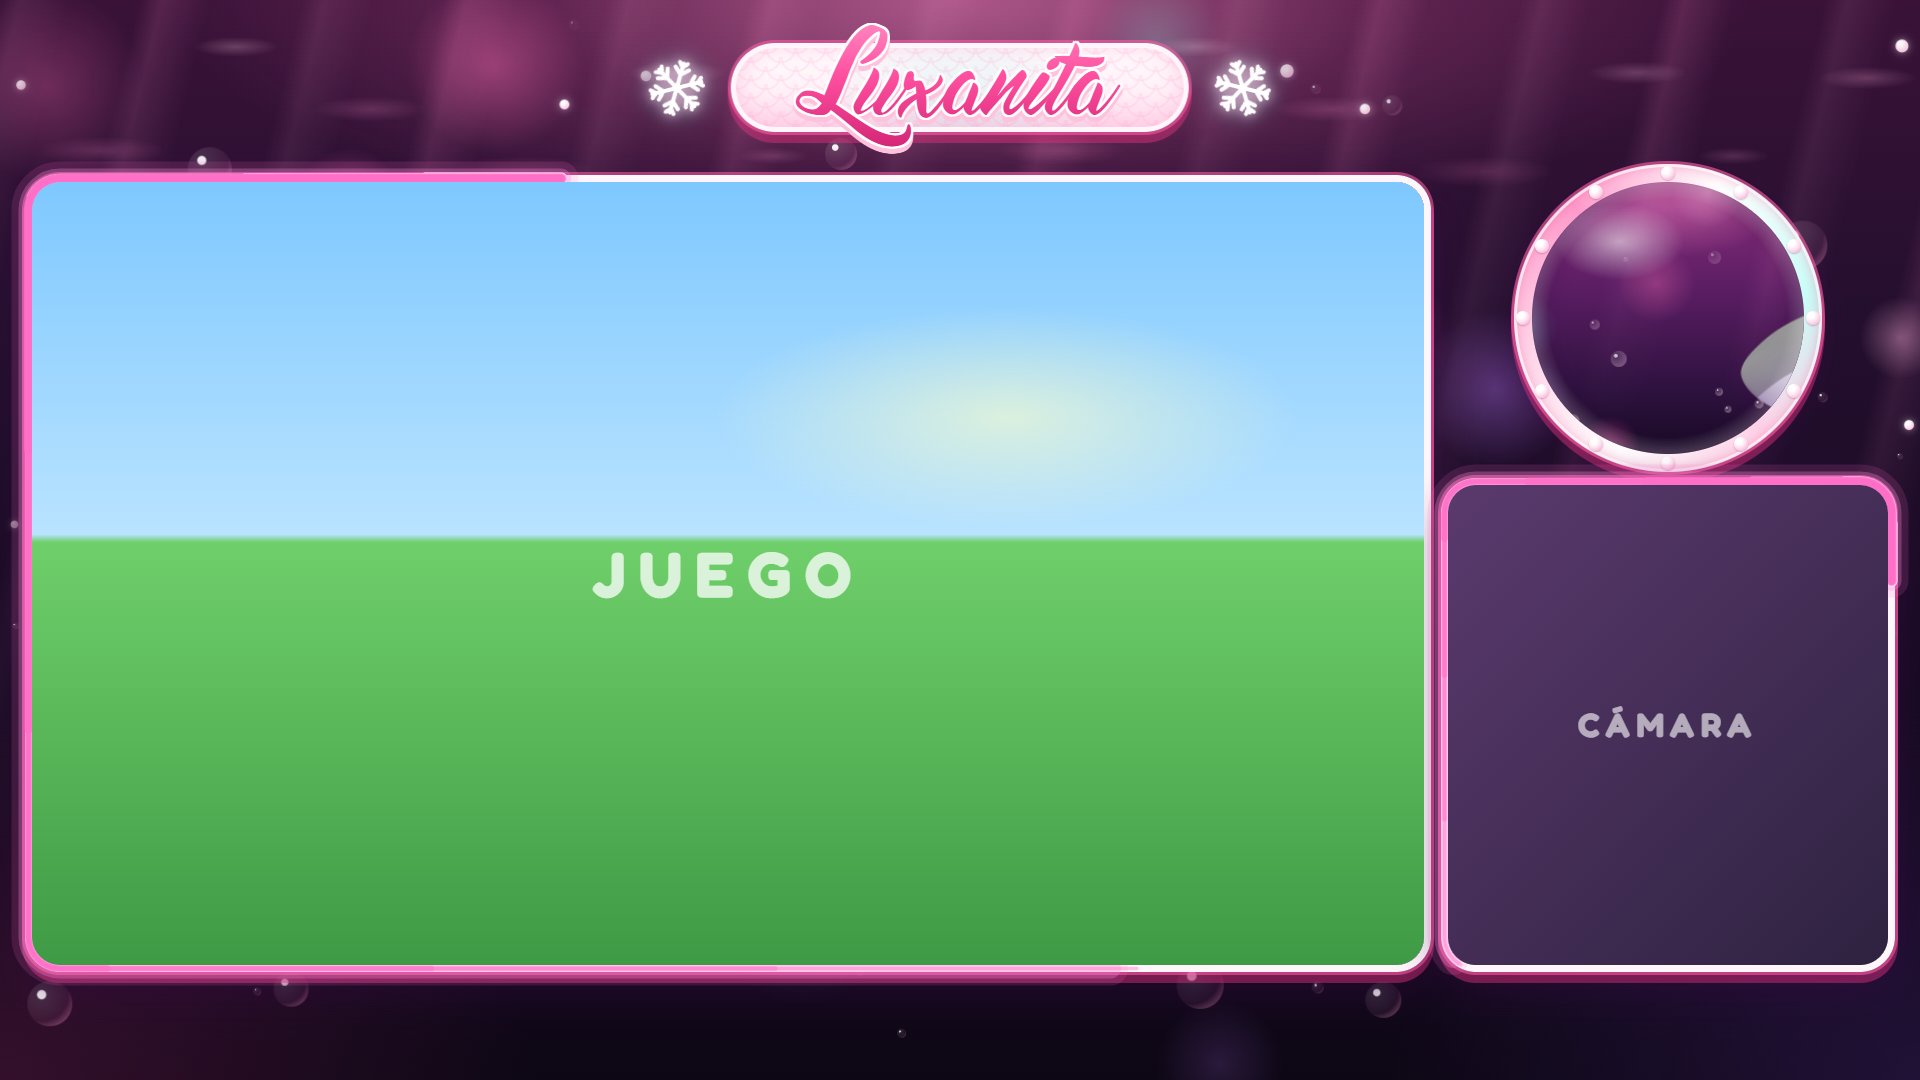
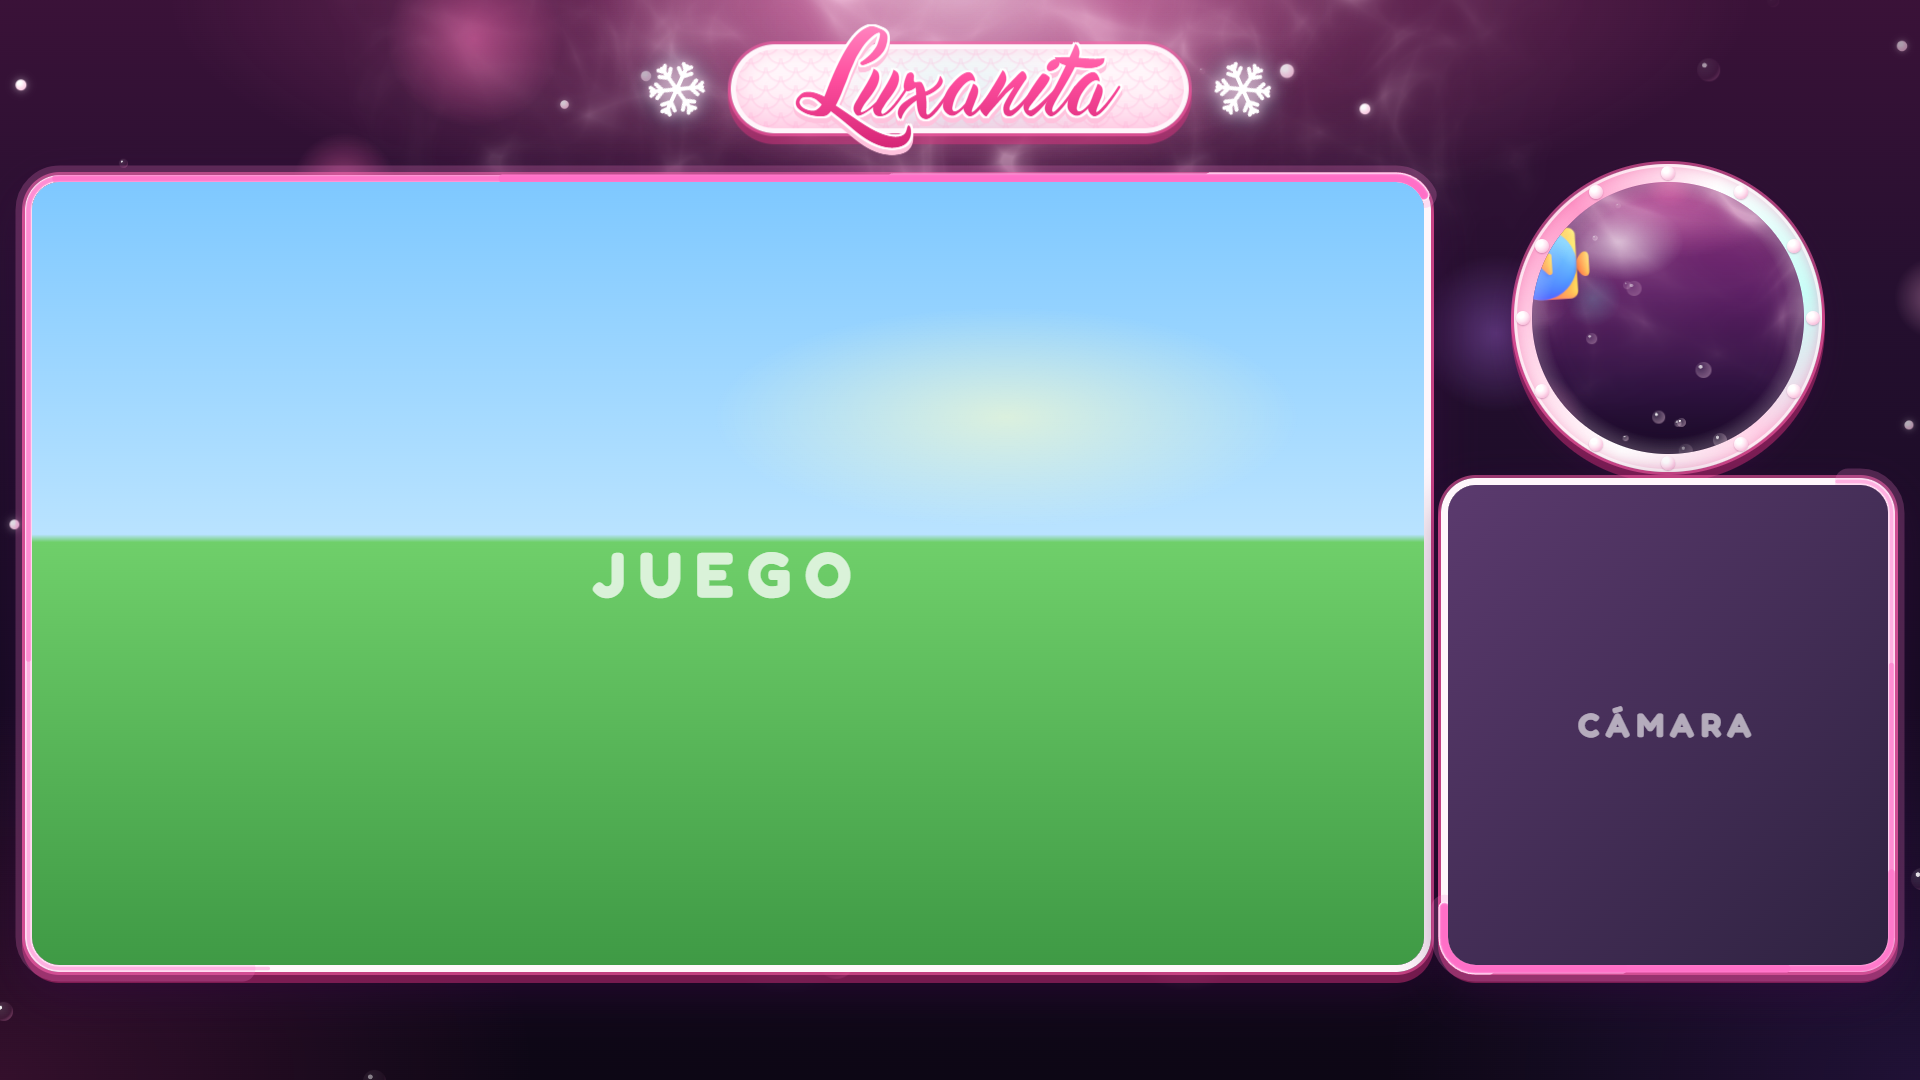
Overlay: reflejos de luz bajo el agua (cáusticas) y más ligero
- Cáusticas rosas solo en el centro de arriba, en vez de líneas: dos capas
  de textura generada (generar_causticas.py) que se mueven con la tarjeta
  gráfica.
- Fuera los reflejos que se desplazaban de lado.
- Neón con menos capas y redibujado 30 veces por segundo.
- Un tercio menos de burbujas y luces.

diff --git a/overlay/overlay.html b/overlay/overlay.html
@@ -63,43 +63,58 @@ html, body {
     linear-gradient(180deg, #3a1238 0%, #250f2f 28%, #160a22 62%, #0d0715 100%);
 }
 
-/* rayos de luz desde la superficie */
+/* reflejos de luz bajo el agua (cáusticas), solo en el centro de arriba.
+   Dos capas de la misma red de luz que se desplazan despacio en direcciones distintas:
+   al cruzarse parece que la luz "baila". Texturas: fondo/causticas*.png (generar_causticas.py) */
 .rays {
   position: absolute;
-  inset: -10% -10% 0;
-  background: repeating-linear-gradient(100deg,
-    rgba(255,140,200,0) 0 70px, rgba(255,140,200,.2) 92px, rgba(255,140,200,0) 140px,
-    rgba(255,140,200,0) 230px, rgba(255,170,215,.13) 252px, rgba(255,170,215,0) 300px);
-  -webkit-mask-image: linear-gradient(180deg, #000 0%, rgba(0,0,0,.6) 40%, transparent 90%);
-          mask-image: linear-gradient(180deg, #000 0%, rgba(0,0,0,.6) 40%, transparent 90%);
-  animation: rays 26s ease-in-out infinite alternate;
+  left: 50%;
+  top: -40px;
+  width: 1700px;
+  height: 760px;
+  margin-left: -850px;
+  overflow: hidden;
+  -webkit-mask-image: radial-gradient(ellipse 50% 100% at 50% 0, #000 0%, rgba(0,0,0,.6) 35%, transparent 75%);
+          mask-image: radial-gradient(ellipse 50% 100% at 50% 0, #000 0%, rgba(0,0,0,.6) 35%, transparent 75%);
 }
-@keyframes rays {
-  from { transform: translateX(-60px) skewX(-4deg); opacity: .8; }
-  to   { transform: translateX(60px) skewX(4deg); opacity: 1; }
+.rays::before, .rays::after {
+  content: '';
+  position: absolute;
+  will-change: transform;
+}
+.rays::before {
+  left: -512px;
+  top: -512px;
+  width: calc(100% + 1024px);
+  height: calc(100% + 1024px);
+  background: url('fondo/causticas1.png') 0 0 / 512px 512px;
+  opacity: .7;
+  animation: caust1 46s linear infinite;
+}
+.rays::after {
+  left: -640px;
+  top: -640px;
+  width: calc(100% + 1280px);
+  height: calc(100% + 1280px);
+  background: url('fondo/causticas2.png') 0 0 / 640px 640px;
+  opacity: .5;
+  animation: caust2 64s linear infinite;
+}
+/* se desplazan justo una baldosa: al terminar empiezan igual y no se nota el salto */
+@keyframes caust1 { to { transform: translate(512px, 512px); } }
+@keyframes caust2 { to { transform: translate(-640px, 640px); } }
+/* el "sol": un brillo rosa en el centro de la superficie */
+.sun {
+  position: absolute;
+  left: 50%;
+  top: -220px;
+  width: 760px;
+  height: 420px;
+  margin-left: -380px;
+  border-radius: 50%;
+  background: radial-gradient(ellipse at 50% 50%, rgba(255,235,245,.55) 0%, rgba(255,150,205,.35) 30%, rgba(255,110,181,0) 70%);
 }
 
-/* reflejos de agua (cáusticas) que se mueven arriba */
-.caustics {
-  position: absolute;
-  left: 0;
-  top: 0;
-  width: 2880px;             /* 3 veces el dibujo de 960 px: se desplaza 960 px y vuelve a empezar */
-  height: 260px;
-  will-change: transform;
-  background:
-    radial-gradient(ellipse 70px 16px at 8% 30%, rgba(255,170,215,.28), transparent 70%),
-    radial-gradient(ellipse 90px 20px at 24% 58%, rgba(255,140,200,.22), transparent 70%),
-    radial-gradient(ellipse 60px 14px at 38% 18%, rgba(255,210,235,.26), transparent 70%),
-    radial-gradient(ellipse 80px 18px at 52% 42%, rgba(255,150,205,.22), transparent 70%),
-    radial-gradient(ellipse 100px 22px at 68% 66%, rgba(255,130,195,.18), transparent 70%),
-    radial-gradient(ellipse 70px 16px at 84% 28%, rgba(255,190,225,.26), transparent 70%),
-    radial-gradient(ellipse 50px 12px at 94% 60%, rgba(255,160,210,.2), transparent 70%);
-  background-size: 960px 260px;
-  animation: caustics 22s linear infinite;
-  opacity: .9;
-}
-@keyframes caustics { to { transform: translateX(-960px); } }
 
 /* burbujas: la de fuera sube en línea recta y la de dentro se mece suave
    (dos movimientos separados = sin tirones al cambiar de dirección) */
@@ -343,8 +358,13 @@ html, body {
   box-shadow: inset 0 0 30px rgba(40,5,50,.55);
 }
 .porthole .water .rays {
-  inset: -20% -30% 0;
-  animation-duration: 18s;
+  left: 0;
+  top: 0;
+  width: 100%;
+  height: 100%;
+  margin: 0;
+  -webkit-mask-image: linear-gradient(180deg, #000, transparent 85%);
+          mask-image: linear-gradient(180deg, #000, transparent 85%);
 }
 /* animales que pasan por la ventana (los crea el JS al azar) */
 .porthole .swimmer {
@@ -435,8 +455,8 @@ html.preview body { background: #1b0e2c; }
 <body>
 <div id="stage">
   <div class="sea">
+    <div class="sun"></div>
     <div class="rays"></div>
-    <div class="caustics"></div>
     <div class="bokeh"></div>
     <div class="bubbles"></div>
   </div>
@@ -574,35 +594,47 @@ html.preview body { background: #1b0e2c; }
   }
 
   // ----- neón: varias capas que comparten la cabeza; cuanto más larga, más fina y transparente -----
-  var NEON_CAPAS = 9, NEON_COLA = 0.55, NEON_VEL = 170;     // capas, largo de la estela (parte del borde), px por segundo
+  var NEON_CAPAS = 6, NEON_COLA = 0.55, NEON_VEL = 170, NEON_FPS = 30;   // capas, largo de la estela, px por segundo, veces por segundo que se redibuja
   function neonSVG(b) {
     var W = b.w + BORDER * 2, H = b.h + BORDER * 2, h = BORDER / 2, r = R + BORDER - h;
     var rect = '<rect x="' + h + '" y="' + h + '" width="' + (W - BORDER) + '" height="' + (H - BORDER) + '" rx="' + r + '" pathLength="1000"';
     // halo ancho y suave a lo largo de toda la estela
     var out = '<svg class="neon" width="' + W + '" height="' + H + '" viewBox="0 0 ' + W + ' ' + H + '">' +
-              rect + ' data-halo="1" stroke="#ff6ec7" stroke-width="34" stroke-opacity=".14"/>' +
-              rect + ' data-halo="1" stroke="#ff8ad8" stroke-width="20" stroke-opacity=".3"/>';
+              rect + ' data-halo="1" stroke="#ff7fcf" stroke-width="26" stroke-opacity=".22"/>';
     for (var k = 0; k < NEON_CAPAS; k++) {
       var t = k / (NEON_CAPAS - 1);                                   // 0 = cabeza, 1 = final de la cola
       var ancho = (12 - t * 8.5).toFixed(2);                          // de 12 px a 3,5 px
       var op = (1 - t * .6).toFixed(2);
-      var color = k === 0 ? '#fff0fa' : (k < 3 ? '#ffa3e0' : '#ff6ec7');      // rosa chicle neón
+      var color = k === 0 ? '#fff0fa' : (k < 2 ? '#ffa3e0' : '#ff6ec7');      // rosa chicle neón
       out += rect + ' stroke="' + color + '" stroke-width="' + ancho + '" stroke-opacity="' + op + '"/>';
     }
     return out + '</svg>';
   }
+  // El neón no lo puede mover la tarjeta gráfica (es un trazo que avanza), así que se redibuja
+  // solo NEON_FPS veces por segundo: va tan despacio que no se nota y gasta mucho menos.
+  var neones = [];
   function animarNeon(f, b) {
     var per = 2 * (b.w + b.h + BORDER * 2) - (8 - 2 * Math.PI) * (R + BORDER / 2);   // perímetro aprox.
-    var dur = per / NEON_VEL * 1000;
-    var rects = f.querySelectorAll('.neon rect');
-    var capa = 0;
-    rects.forEach(function (rc) {
+    var capa = 0, n = { dur: per / NEON_VEL * 1000, rects: [] };
+    f.querySelectorAll('.neon rect').forEach(function (rc) {
       var largo = rc.dataset.halo ? 1000 * NEON_COLA : 1000 * NEON_COLA * Math.pow(++capa / NEON_CAPAS, 1.4) + 6;   // la cabeza es la capa más corta
       rc.setAttribute('stroke-dasharray', largo.toFixed(1) + ' ' + (1000 - largo).toFixed(1));
-      rc.animate([{ strokeDashoffset: largo }, { strokeDashoffset: largo - 1000 }],
-                 { duration: dur, iterations: Infinity, easing: 'linear' });
+      n.rects.push({ el: rc, largo: largo });
     });
+    neones.push(n);
   }
+  var ultimoNeon = -1e9;
+  function moverNeon(t) {
+    if (t - ultimoNeon >= 1000 / NEON_FPS - 1) {
+      ultimoNeon = t;
+      neones.forEach(function (n) {
+        var avance = (t % n.dur) / n.dur * 1000;
+        n.rects.forEach(function (r) { r.el.setAttribute('stroke-dashoffset', (r.largo - avance).toFixed(1)); });
+      });
+    }
+    requestAnimationFrame(moverNeon);
+  }
+  requestAnimationFrame(moverNeon);
 
   frame('game', LAYOUT.game, {});
   frame('cam',  LAYOUT.cam,  {});
@@ -610,7 +642,7 @@ html.preview body { background: #1b0e2c; }
   // ----- luces difuminadas (rosas, blancas y algún toque aguamarina) -----
   var bokeh = document.querySelector('.bokeh'), html = '';
   var tints = ['rgba(255,110,181,.5)', 'rgba(255,180,220,.4)', 'rgba(255,80,170,.42)', 'rgba(127,243,230,.22)', 'rgba(190,120,255,.35)'];
-  for (var i = 0; i < 20; i++) {
+  for (var i = 0; i < 14; i++) {
     html += '<span style="--x:' + (rnd() * 100).toFixed(1) + '%;--y:' + (rnd() * 100).toFixed(1) + '%;--s:' + (60 + rnd() * 160 | 0) + 'px;--c:' + tints[i % tints.length] + '"></span>';
   }
   bokeh.innerHTML = html;
@@ -626,7 +658,7 @@ html.preview body { background: #1b0e2c; }
 
   // ----- burbujas -----
   var bubbles = document.querySelector('.bubbles'); html = '';
-  for (i = 0; i < 45; i++) {
+  for (i = 0; i < 30; i++) {
     html += '<span style="--x:' + (rnd() * 100).toFixed(1) + '%;--s:' + (6 + Math.pow(rnd(), 2) * 44 | 0) + 'px;--d:' + (20 + rnd() * 16).toFixed(1) + 's;--t:' + (-rnd() * 36).toFixed(1) + 's"><i></i></span>';
   }
   bubbles.innerHTML = html;

diff --git a/overlay/generar_causticas.py b/overlay/generar_causticas.py
@@ -1,0 +1,38 @@
+# Genera las texturas de cáusticas (la red de luz que se ve bajo el agua) del overlay.
+#   python generar_causticas.py
+# Crea fondo/causticas1.png y fondo/causticas2.png: 512x512, se pueden repetir sin cortes,
+# en blanco rosado con transparencia. Basado en el efecto "tileable water caustic" (Dave Hoskins).
+import pathlib
+import numpy as np
+from PIL import Image
+
+TAM = 512
+OUT = pathlib.Path(__file__).parent / "fondo"
+OUT.mkdir(exist_ok=True)
+
+
+def causticas(tiempo, iter=5, inten=0.005):
+    tau = 2 * np.pi
+    u = (np.arange(TAM) + .5) / TAM
+    x, y = np.meshgrid(u, u)
+    px = np.mod(x * tau, tau) - 250.0
+    py = np.mod(y * tau, tau) - 250.0
+    ix, iy = px.copy(), py.copy()
+    c = np.ones_like(px)
+    for n in range(iter):
+        t = tiempo * (1.0 - (3.5 / (n + 1)))
+        ix, iy = (px + np.cos(t - ix) + np.sin(t + iy),
+                  py + np.sin(t - iy) + np.cos(t + ix))
+        c += 1.0 / np.hypot(px / (np.sin(ix + t) / inten), py / (np.cos(iy + t) / inten))
+    c /= iter
+    c = 1.17 - np.power(c, 1.4)
+    return np.clip(np.power(np.abs(c), 8.0), 0, 1)
+
+
+for nombre, t in (("causticas1.png", 23.0), ("causticas2.png", 31.5)):
+    v = causticas(t)
+    a = (np.power(np.clip(v, 0, 1), 1.5) * 255).astype(np.uint8)   # transparencia: solo se ven las líneas finas de luz
+    rgb = np.zeros((TAM, TAM, 3), np.uint8)
+    rgb[..., 0], rgb[..., 1], rgb[..., 2] = 255, 214, 236         # blanco rosado
+    Image.fromarray(np.dstack([rgb, a]), "RGBA").save(OUT / nombre, optimize=True)
+    print("ok", nombre, (OUT / nombre).stat().st_size // 1024, "KB")
